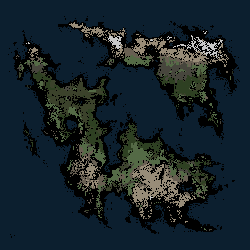
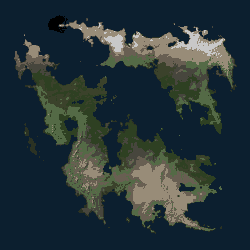
petite modif main

diff --git a/SAE_IL/src/Main.java b/SAE_IL/src/Main.java
@@ -1,6 +1,8 @@
 import java.awt.*;
 import java.io.IOException;
+import java.util.ArrayList;
 import java.util.Arrays;
+import java.util.List;
 
 public class Main {
     public static void main(String[] args) throws IOException {
@@ -19,13 +21,23 @@ public class Main {
         //  image.modif_oeil("src/", "img.jpg", "image_modif4","png");
         //image.flouter_moyenne("src/", "img.jpg", "image_flou","png");
         //image.flouter_gaussienne("img/", "Planete 2.jpg", "Planete_Floue","png");
-        DBScan scan = new DBScan(3, 5);
-        int[][] param = image.image_to_param("C:/Users/user/Desktop/Cours/SAE-Planet/SAE_IL/SAE_IL/img/", "test2.jpg");
+        K_Mean scan = new K_Mean(200);
+        int[][] param = image.image_to_param("C:/Users/flori/Documents/Travail IUT/S4/SAE/SAE - Détection de biomes sur des exoplanètes/SAE_IL/SAE_IL/img/", "test2.jpg");
         int[] clusters = scan.algoClust(param);
         System.out.println(Arrays.toString(clusters));
         String[] biomes = image.convertCluster(param, clusters);
-        int[] dim = image.getDim("C:/Users/user/Desktop/Cours/SAE-Planet/SAE_IL/SAE_IL/img/", "test2.jpg");
-        image.imagebiome(param, biomes, clusters, "C:/Users/user/Desktop/Cours/SAE-Planet/SAE_IL/SAE_IL/img/", "test2",  "png", dim[0], dim[1]);
+
+        // liste des biomes présents
+        List<String> biomePresents = new ArrayList<>();
+        for (String biome : biomes) {
+            if (!biomePresents.contains(biome)) {
+                biomePresents.add(biome);
+            }
+        }
+        System.out.println("Liste des biomes présents : " + biomePresents);
+
+        int[] dim = image.getDim("C:/Users/flori/Documents/Travail IUT/S4/SAE/SAE - Détection de biomes sur des exoplanètes/SAE_IL/SAE_IL/img/", "test2.jpg");
+        image.imagebiome(param, biomes, clusters, "C:/Users/flori/Documents/Travail IUT/S4/SAE/SAE - Détection de biomes sur des exoplanètes/SAE_IL/SAE_IL/img/", "test2",  "png", dim[0], dim[1]);
         //image.afficherBiomes("img/", "Planete 2.jpg", "Fond","png");
     }
 }

diff --git a/SAE_IL/src/BiomeRGBMap.java b/SAE_IL/src/BiomeRGBMap.java
@@ -20,7 +20,7 @@ public class BiomeRGBMap {
 
 
     public String getBiome(int[] x){
-        int[] meilleurRGB = {237, 201, 175};
+        int[] meilleurRGB = {152, 140, 120};
         double meilleurDist = distance(meilleurRGB,x);
         double distanceP;
         String biome = "Désert";
